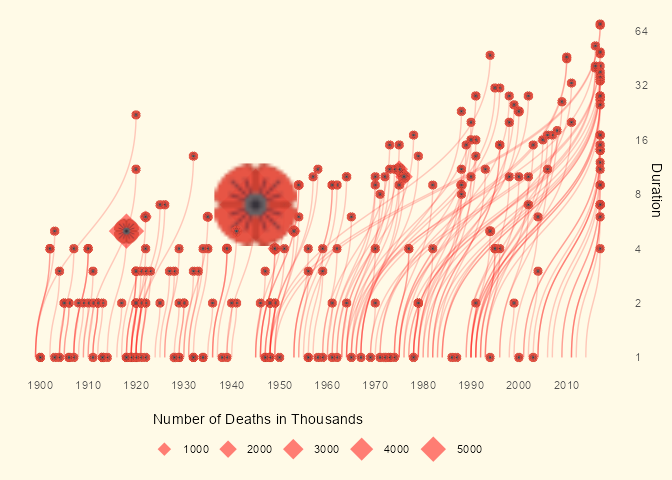
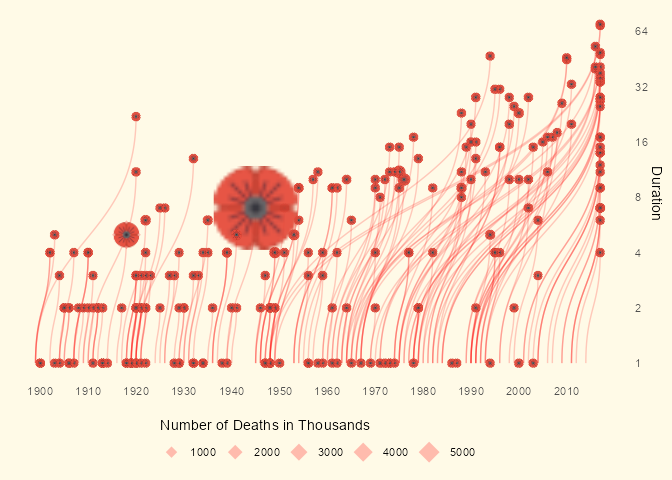
fixup

diff --git a/vizbuzz03/readme.md b/vizbuzz03/readme.md
@@ -100,12 +100,12 @@ dat |>
          scaled_fatalities = scaled_fatalities * 0.20 + 0.025) |> 
   ggplot(aes(x = duration + 1, y = end, size = Fatalities/1000)) + 
   geom_diagonal(aes(y = start, yend = end, x = 1, xend = duration + 1.01),color = "red",alpha = 0.2,inherit.aes = FALSE)+
-  geom_point(aes(size = fatalities),shape = 18, alpha = 0.5, color = "red") +
+  geom_point(aes(size = fatalities),shape = 18, alpha = 0.25, color = "red") +
   geom_from_path(aes(height = scaled_fatalities,
                      width = scaled_fatalities),
                  path = "poppy.png",
                  alpha = 0.95) + 
-  scale_size_continuous(range = c(1,25),
+  scale_size_continuous(range = c(1,20),
                         breaks = c(1000,2000,3000,4000,5000),
                         guide = guide_legend(title.position = "top")) +
   scale_y_continuous(breaks = seq(1900,2010,by = 10)) +
